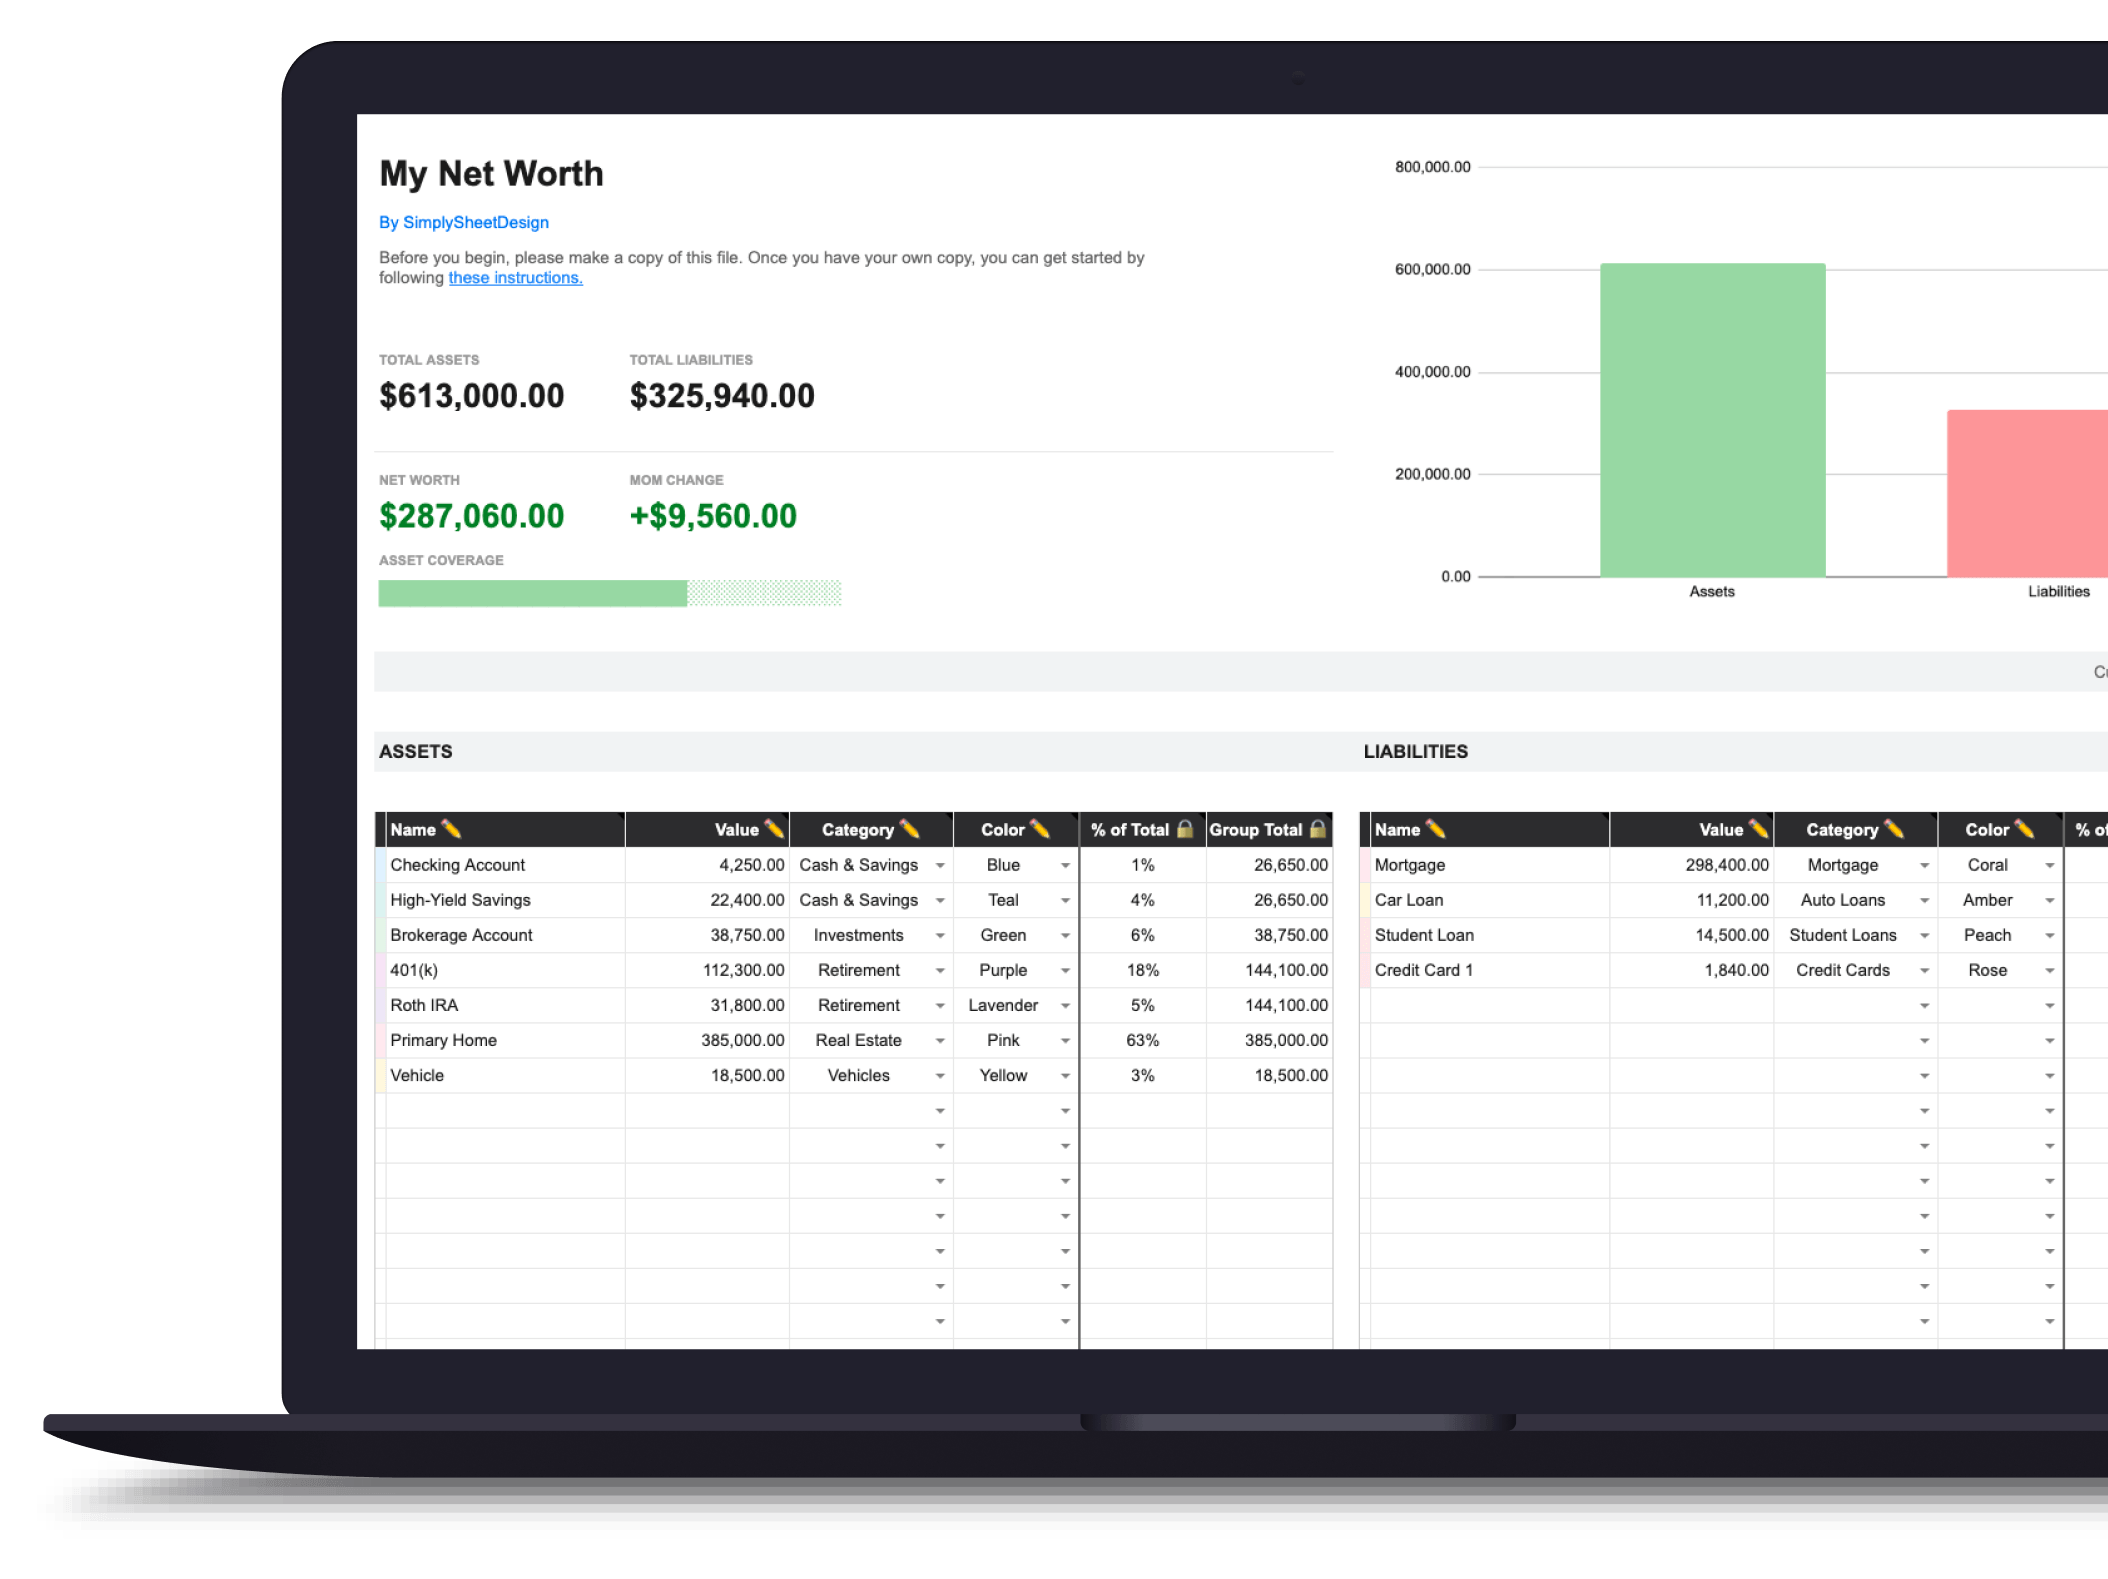
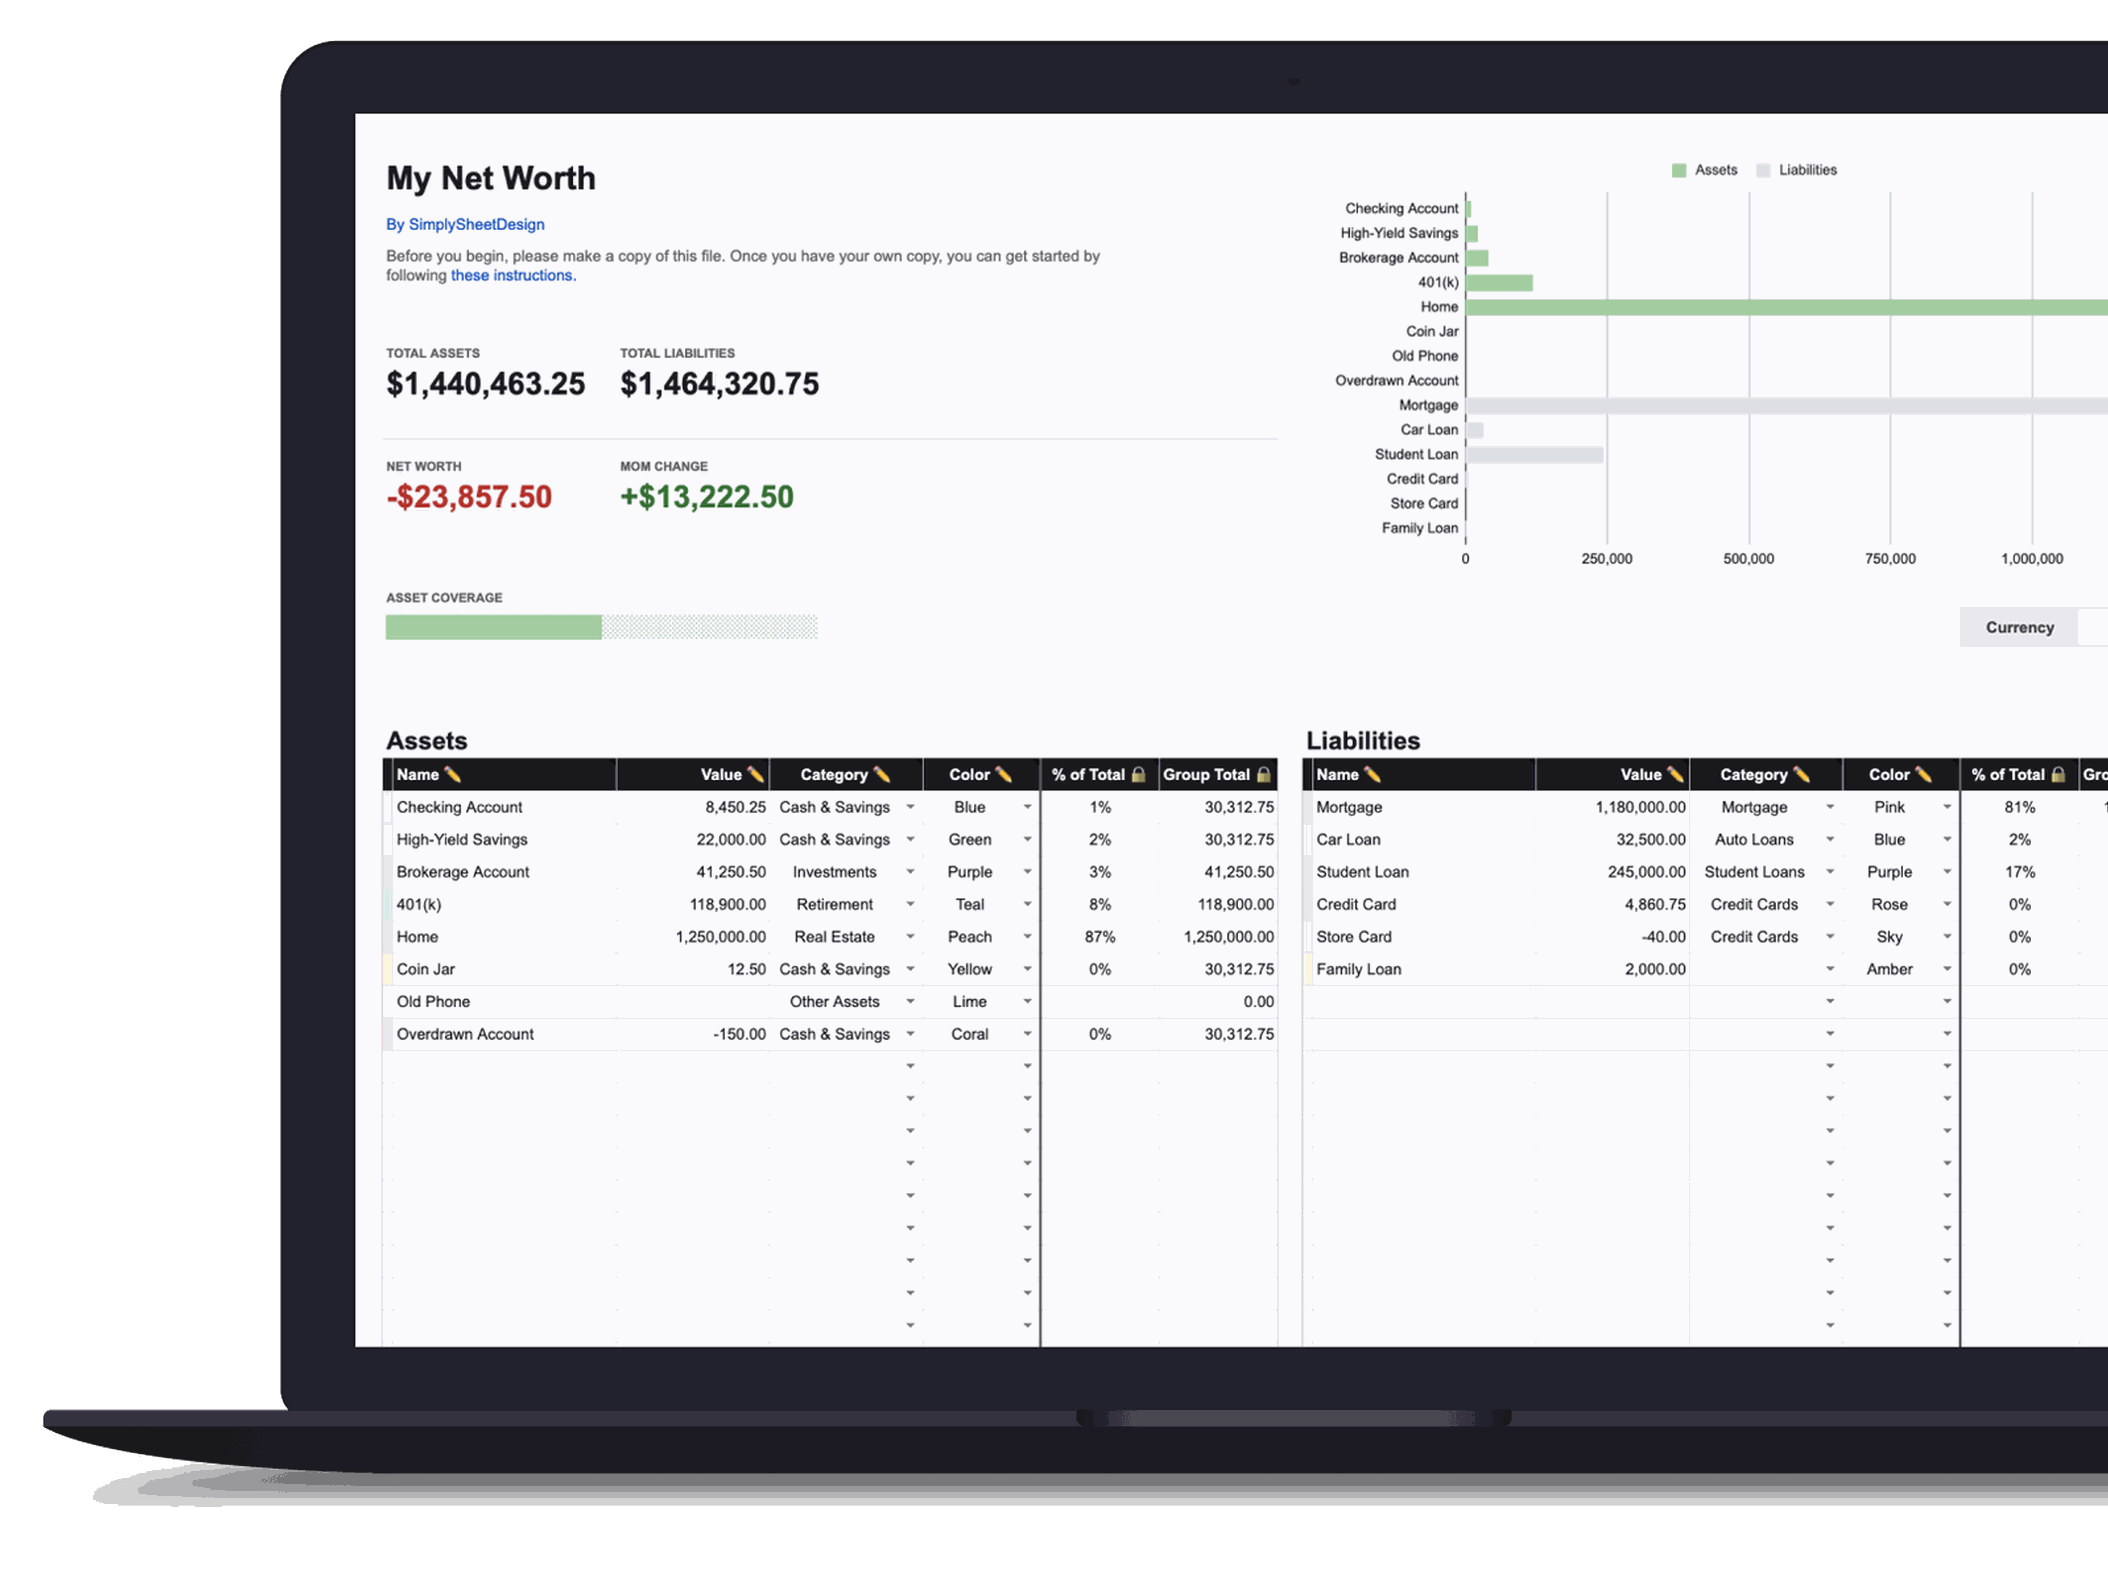
Net Worth Tracker: product images and copy show the updated sheet
New centered and right-positioned PNGs (dark and light) from the updated
brand-kit mockups, same hero recipe as the Savings update. The page no longer
promises a trend chart: the new chart is a bar per account.

Claude-Session: https://claude.ai/code/session_01URhuZBnQUN4GFnQw4E5AQj

diff --git a/src/content/templates/net-worth-tracker.md b/src/content/templates/net-worth-tracker.md
@@ -13,7 +13,7 @@ midImageLight: "/images/featured budget thumbnail-net worth tracker-light-theme-
 features:
   - "Track all assets and liabilities in one place"
   - "Monthly net worth snapshots"
-  - "Visual trend chart showing growth over time"
+  - "Bar chart of every asset and liability"
   - "Categories for bank accounts, investments, property, and debt"
   - "Automatic net worth calculation"
   - "Works with Google Sheets and Microsoft Excel"
@@ -74,7 +74,7 @@ Every account, both sides. Assets are current accounts, savings, brokerage, reti
 
 Collecting them the first time takes an hour or so, and it is the hardest part. After that it is a quarterly update of numbers you already know where to find. Write down where each figure comes from as you go, because the annoying part of the second snapshot is remembering which of three retirement accounts you pulled which number from.
 
-Two valuations need a rule rather than a lookup. Property is worth setting once from a recent estimate and revisiting yearly, not monthly, since a home value that jumps around on estimates makes your net worth chart mostly noise. Vehicles depreciate steadily, so either update them yearly or leave them out entirely. Leaving them out is defensible and produces a more stable number.
+Two valuations need a rule rather than a lookup. Property is worth setting once from a recent estimate and revisiting yearly, not monthly, since a home value that jumps around on estimates makes your net worth history mostly noise. Vehicles depreciate steadily, so either update them yearly or leave them out entirely. Leaving them out is defensible and produces a more stable number.
 
 ## Using it in Google Sheets or Excel
 
@@ -94,7 +94,7 @@ Be consistent rather than precise. If you value the house optimistically, do it 
 
 The History Log is where the value actually accumulates. Each entry records total assets, total liabilities, and net worth at a point in time, and the Dashboard shows the change since last month.
 
-Monthly is the documented cadence and quarterly is the one most people sustain. Either works. What does not work is skipping a year and then trying to reconstruct where you stood, because the past values are gone and the chart has a hole in it. Put a recurring reminder in your calendar the day you buy this, and log the number even in the months it went down.
+Monthly is the documented cadence and quarterly is the one most people sustain. Either works. What does not work is skipping a year and then trying to reconstruct where you stood, because the past values are gone and the history has a hole in it. Put a recurring reminder in your calendar the day you buy this, and log the number even in the months it went down.
 
 It will go down sometimes. Markets fall, cars depreciate, and a month with a large planned purchase shows up as a decline. A log with only the good months in it is worse than no log, because it will tell you a trend that is not true.
 
